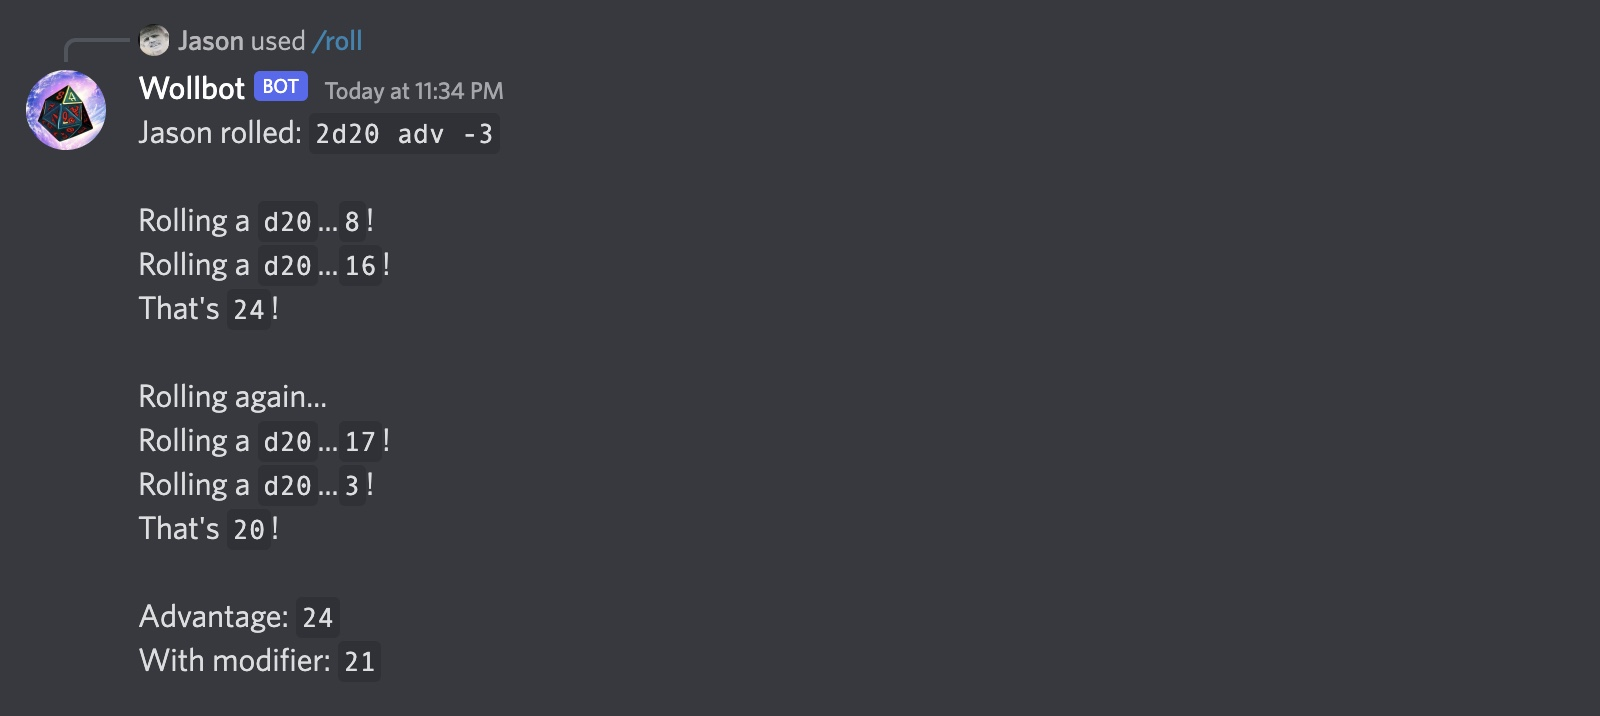
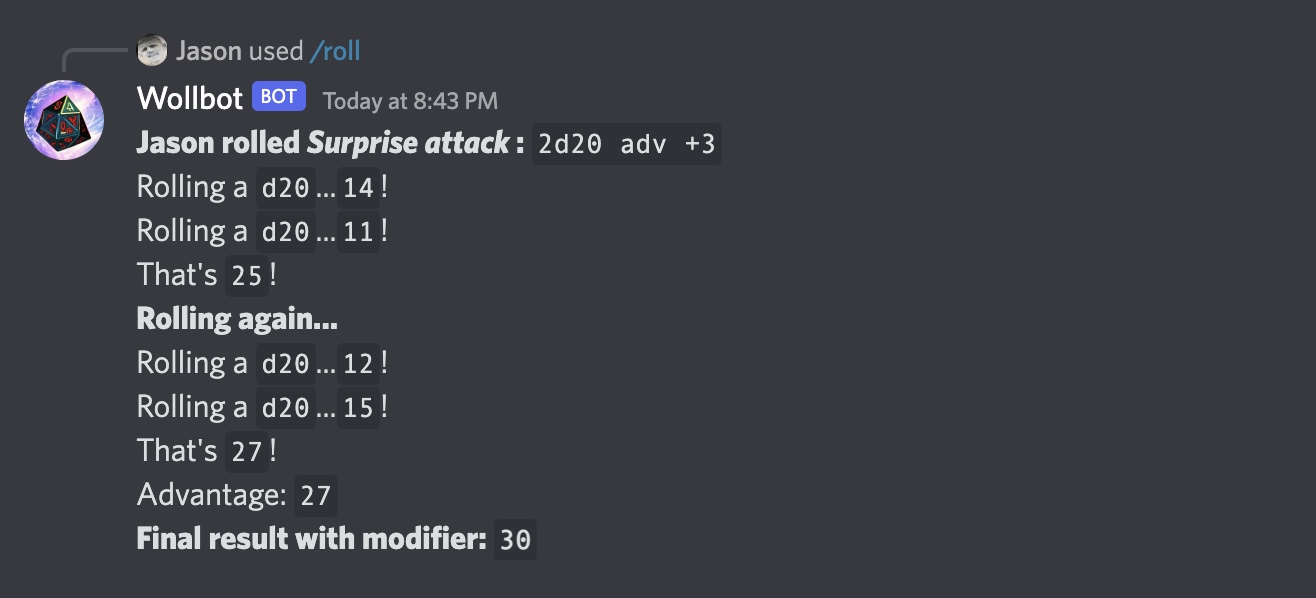
docs

diff --git a/README.md b/README.md
@@ -1,6 +1,6 @@
 # Wollbot
 
-My friend needed a dice roller for discord d&d.
+My friend needed a dice roller for discord d&d.  
 He's a pretty great friend, so I made him one.
 
 ## Features
@@ -10,10 +10,13 @@ He's a pretty great friend, so I made him one.
 - Rolling a CURSED die
 - Advantage / Disadvantage
 - Modifiers
+- "Titling" a roll so you know what it was for.
 
 ![Screenshot of the bot's reply](./images/sample.jpg)
 
 ## Notes
+
+Built for deployment on [Cloudflare Workers](https://workers.cloudflare.com/)
 
 Followed this setup:
 https://discord.com/developers/docs/tutorials/hosting-on-cloudflare-workers
@@ -58,4 +61,5 @@ Will's Rollbot
 - Get a forwarding url with `npm run ngrok`
 - Run `npm run dev`
 - Save the ngrok url into the Bot application's INTERACTIONS ENDPOINT URL (in Settings)
-- When finished `npm run publish` to deploy changes.
+- When finished `npm run publish` to deploy changes to Cloudflare.
+- Don't forget to change the Bot's INTERACTIONS ENDPOINT URL back workers URL.
